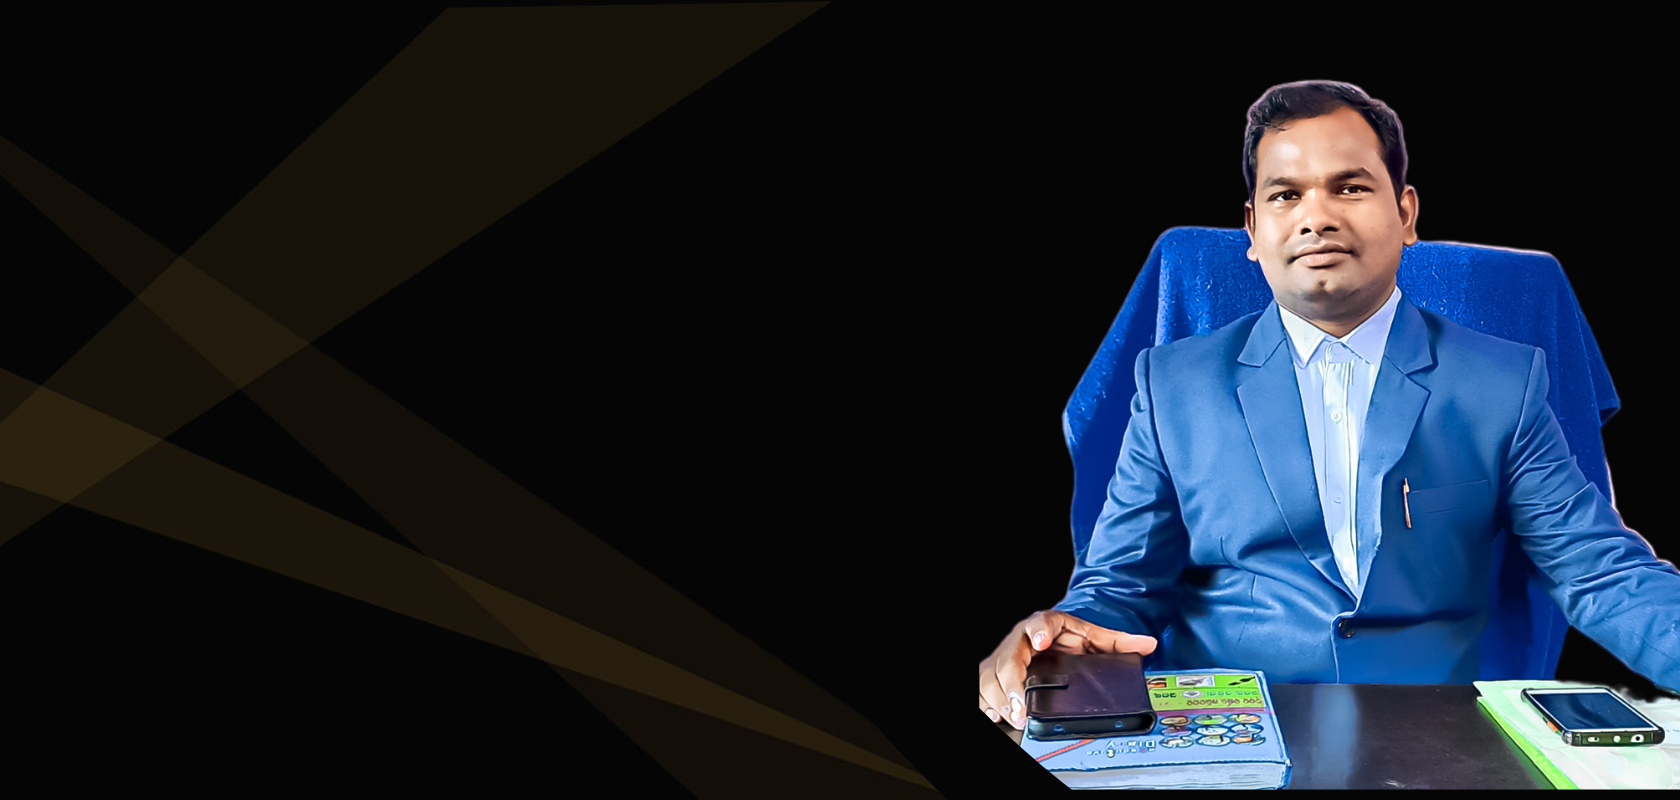
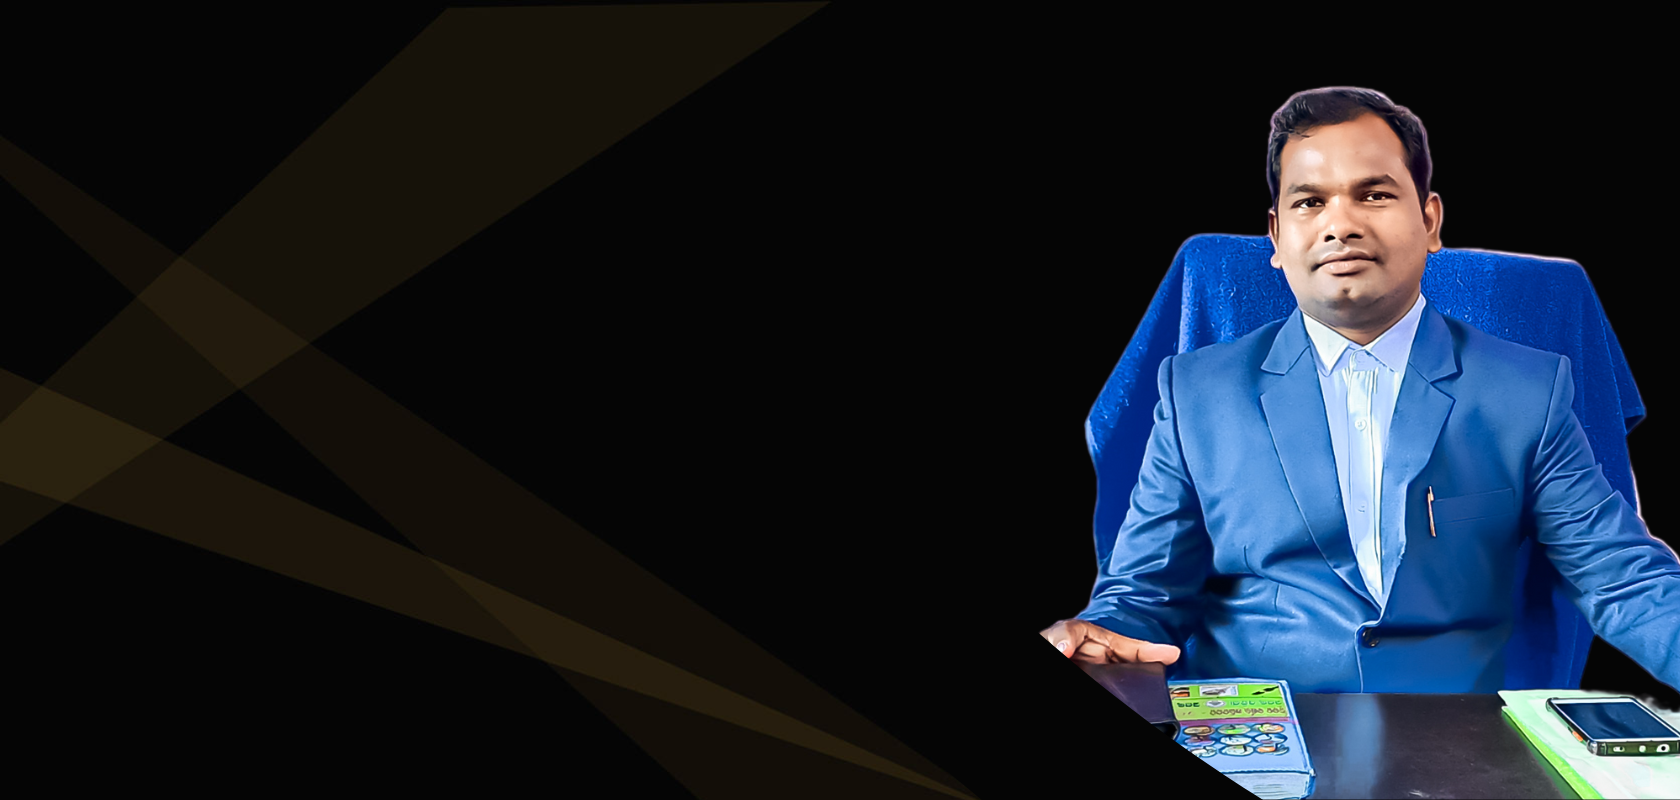
Add files via upload

Changed region(s): [[0.5571, 0.0938, 1.0, 1.0], [0.5571, 0.9688, 0.5881, 1.0]]

diff --git a/index.html b/index.html
@@ -111,19 +111,21 @@ I build identities that speak to your audience, connect them with you, and make 
             <div class="skills-content">
                 <div class="column left">
                     <div class="text">My creative skills & experiences.</div>
-                    <p>•	Branding of the business<br>
-•	Preparing goals and objectives for the business<br>
-•	 Promoting overall growth of the company<br>
-•	Brand Strategy and positioning<br>
-•	Consumer Experience and Loyalty Marketing<br>
-•	Strategic Communications<br>
-•	Editorial Planning and Creative Development<br>
-•	Innovation and New Product Launches<br>
-•	Digital Product Development<br>
-•	Building Highly Effective Teams<br>
-•	Partnership and Customer Management<br>
-•	Consumer Insight Research<br>
-•	Community Management</p>
+                    <p>• Business Branding<br>
+•Preparing goals and objectives for Brand<br>
+•Promoting overall growth of Brand<br>
+•Brand Strategy and positioning<br>
+•Consumer Experience<br>
+•Loyalty Marketing<br>
+•Strategic Communications<br>
+•Editorial Planning<br>
+•Creative Development<br>
+•Innovation & New Product Launches<br>
+•Digital Product Development<br>
+•Building Highly Effective Teams<br>
+•Partnership & Customer Management<br>
+•Consumer Insight Research<br>
+•Community Management</p>
                     <a href="#">Read more</a>
                 </div>
                 <div class="column right">
@@ -187,20 +189,7 @@ I build identities that speak to your audience, connect them with you, and make 
                                 <div class="sub-title">Manoj Singh</div>
                             </div>
                         </div>
-                        <div class="row">
-                            <i class="fas fa-map-marker-alt"></i>
-                            <div class="info">
-                                <div class="head">Address</div>
-                                <div class="sub-title">Surkhet, Nepal</div>
-                            </div>
-                        </div>
-                        <div class="row">
-                            <i class="fas fa-envelope"></i>
-                            <div class="info">
-                                <div class="head">Email</div>
-                                <div class="sub-title">abc@gmail.com</div>
-                            </div>
-                        </div>
+                       
                     </div>
                 </div>
                 <div class="column right">

diff --git a/style.css b/style.css
@@ -163,9 +163,10 @@ section .title::after{
 
 
 /* home section styling */
-.home{
+
+.home{ 
     display: flex;
-    background: url("images/banner.png") no-repeat center;
+    background: url("images/1.png") no-repeat center;
     height: 100vh;
     color: #fff;
     min-height: 500px;
@@ -173,6 +174,21 @@ section .title::after{
     background-attachment: fixed;
     font-family: 'Ubuntu', sans-serif;
 }
+@media screen and (max-width:850px) {
+     .home {
+    display: flex;
+    background: url("images/2.png") no-repeat center;
+    height: 100vh;
+    color: #fff;
+    min-height: 500px;
+    background-size: cover;
+    background-attachment: fixed;
+    font-family: 'Ubuntu', sans-serif;
+
+     }
+}
+
+
 .home .max-width{
   width: 100%;
   display: flex;
